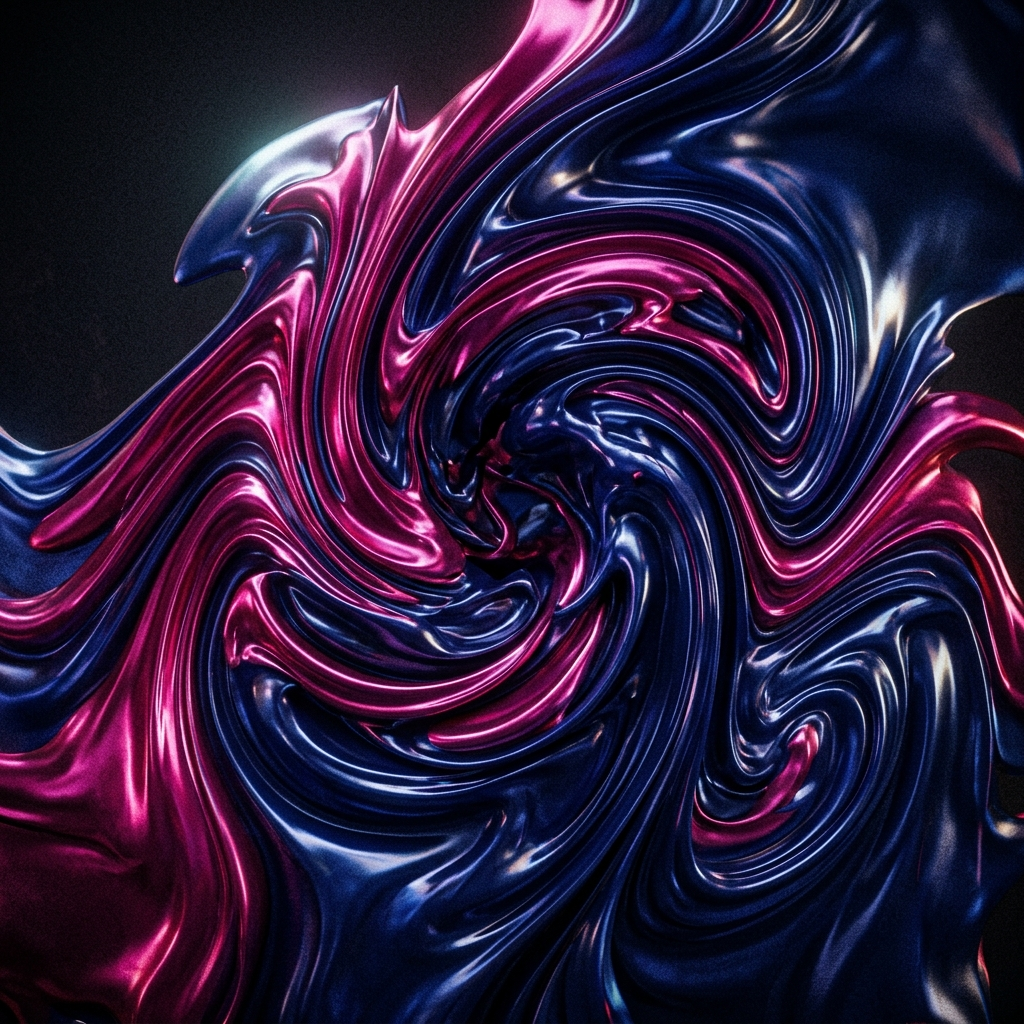
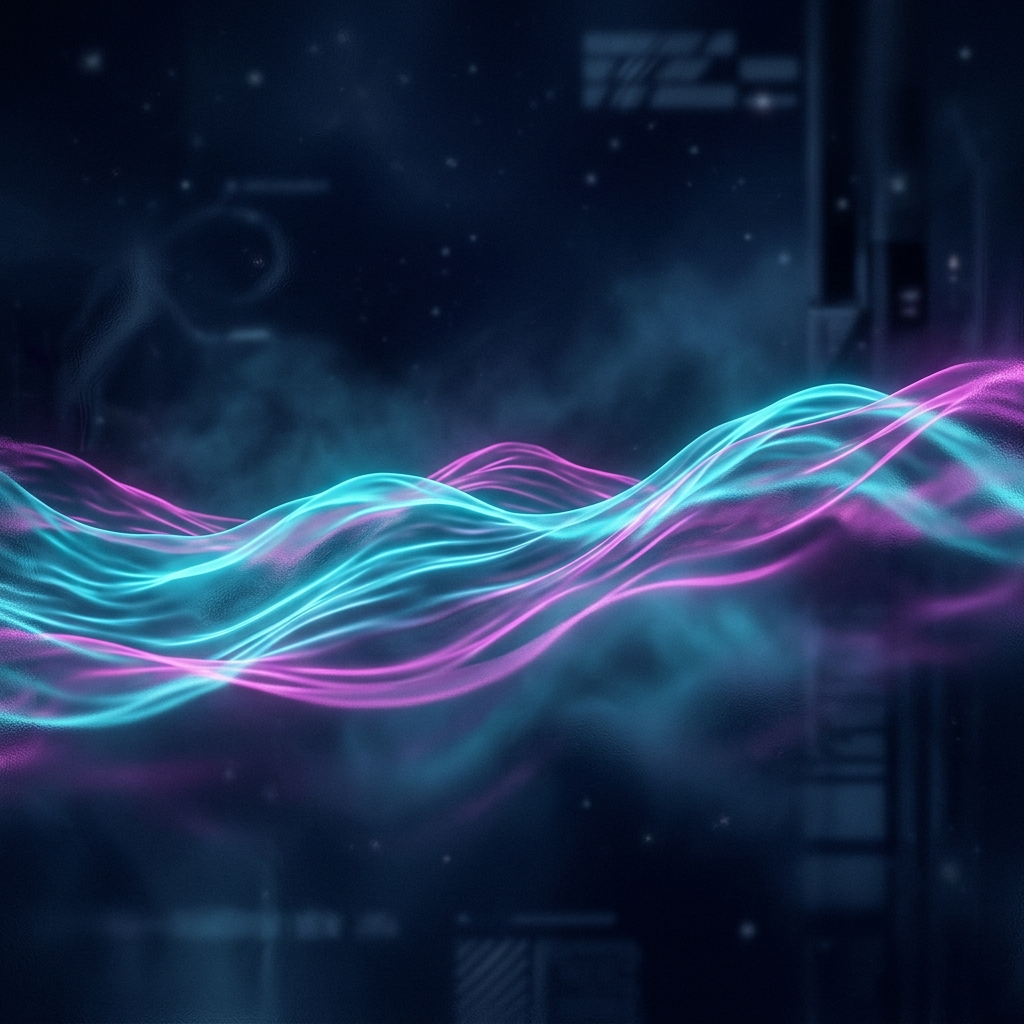
feat(ui): 背景画像をグラスモーフィズム調に差し替え、CSS パラメータを調整
ユーザー目視確認の結果、背景画像をより質感の高いグラスモーフィズム調の画像に差し替え、表示パラメータを再調整：

- 画像差し替え: 969KB → 686KB（深いネイビーブルー + すりガラスの屈折感）
- CSS 調整: opacity 0.2 → 0.6（画像を 3 倍明瞭に）、blur 10px → 4px（ボカシを最小限に）
- design_spec.md §1.3 タイトルを「濃い青のグラスモーフィズム・リキッドテクスチャ」に更新
- 設計原則を 3 箇条に拡張: Deep Authentic Blue / Glassmorphism Texture / Atmosphere over Detail（Contrast is King は維持）
- 注記: 画像自体に質感が含まれるため CSS 側のボカシは画像の鮮やかさを殺さない範囲で最小限に

diff --git a/app/globals.css b/app/globals.css
@@ -24,8 +24,8 @@
     background-image: url('/images/background/liquid-bg.png');
     background-size: cover;
     background-position: center;
-    opacity: 0.2;
-    filter: blur(10px);
+    opacity: 0.6;
+    filter: blur(4px);
     z-index: -1;
     pointer-events: none;
   }

diff --git a/docs/design/v0.1/design_spec.md b/docs/design/v0.1/design_spec.md
@@ -53,19 +53,21 @@ applies_to:
   - **NextLive チケット枠の左ライン**：`border-l-2 border-cyan-400 shadow-[-2px_0_12px_rgba(34,211,238,0.2)]`
 - **不採用**：B-a 点光源・B-c アウトラインは v0.1 では使用しない（v0.5 以降のリブランディング時に再評価）
 
-### 1.3 背景画像（リキッドテクスチャ）
+### 1.3 背景画像（濃い青のグラスモーフィズム・リキッドテクスチャ）
 
-> v0.1の追加仕様として、単なる `bg-black` ではなく、リキッド状のサイバースタイル背景画像を採用する。
+> v0.1の追加仕様として、単なる `bg-black` ではなく、深いネイビーブルーを基調とし、すりガラスの質感（グラスモーフィズム）を加えたサイバースタイルの背景画像を採用する。
 
 - **アセットパス**：`public/images/background/liquid-bg.png`
 - **デザイン原則**：
-  - **Atmosphere over Detail**：画像をハッキリ見せるのではなく、暗く落としてボカすことで「ライブハウスの空気感」を演出する。
+  - **Deep Authentic Blue**：原画から抽出した極めて濃い青をベースに、シアンやマゼンタの発光を引き立てる。
+  - **Glassmorphism Texture**：すりガラスのような半透明と光の屈折を加えることで高級感と可読性を両立する。
+  - **Atmosphere over Detail**：ディテールよりも「深夜のライブハウスの空気感」の演出を優先する。
   - **Contrast is King**：テキストのコントラスト比（4.5:1）を死守する。
 - **具体的実装仕様**：
   - `background-image: url('/images/background/liquid-bg.png')`
   - `background-attachment: fixed`
   - `background-size: cover`
-  - 画像の不透明度は `20%` 程度に落とし、背景の `bg-black` とブレンドするか、上に半透明の黒レイヤーを重ねる。
+  - 画像自体にグラスモーフィズムの質感が含まれているため、CSS側のボカシ（`filter: blur()`）や不透明度の極端な引き下げは、画像の鮮やかさや質感を殺さない範囲（必要最小限）で調整する。
 
 ---
 